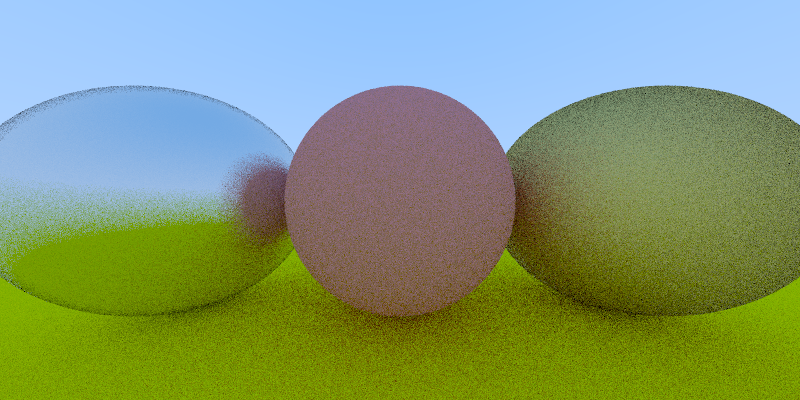
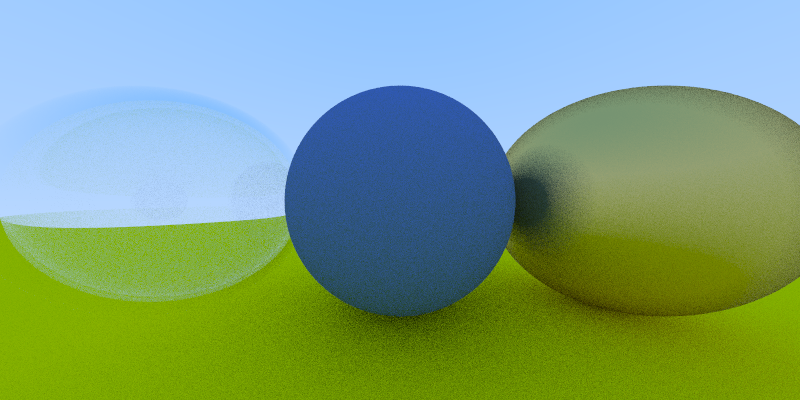
Chapter 9: Dielectrics
The `material` module should probably be refactored. I'm not sure I
like using an an enum to get around the sized issue for the `Scatter`
trait, either.

If I'm still interested when I'm done the chapters, I'll try to clean
this up.

diff --git a/src/mobula/material.rs b/src/mobula/material.rs
@@ -13,6 +13,7 @@ pub trait Scatter {
 pub enum Material {
     Lambertian(Lambertian),
     Metal(Metal),
+    Dialectric(Dialectric),
 }
 
 impl Material {
@@ -25,6 +26,9 @@ impl Material {
                             albedo: V3::new(r, g, b),
                         })
     }
+    pub fn dialectric(refractive_index: f64) -> Self {
+        Material::Dialectric(Dialectric { refractive_index })
+    }
 }
 
 impl Scatter for Material {
@@ -32,6 +36,7 @@ impl Scatter for Material {
         match self {
             Material::Lambertian(m) => m.scatter(ray, hit, attenuation, scattered),
             Material::Metal(m) => m.scatter(ray, hit, attenuation, scattered),
+            Material::Dialectric(m) => m.scatter(ray, hit, attenuation, scattered),
         }
     }
 }
@@ -84,5 +89,57 @@ impl Scatter for Metal {
                               reflected + random_in_unit_sphere().scale(self.fuzz));
         *attenuation = self.albedo;
         scattered.direction().dot(hit.normal) > 0.0
+    }
+}
+#[derive(Copy, Clone, Debug)]
+pub struct Dialectric {
+    refractive_index: f64,
+}
+
+impl Dialectric {
+    fn schlick(&self, cosine: f64) -> f64 {
+        let mut r0 = (1.0 - self.refractive_index) / (1.0 + self.refractive_index);
+        r0 = r0 * r0;
+        r0 + (1.0 - r0) * (1.0 - cosine).powf(5.0)
+    }
+}
+
+impl Scatter for Dialectric {
+    fn scatter(self, ray: &Ray, hit: &Hit, attenuation: &mut V3, scattered: &mut Ray) -> bool {
+        let outward_normal: V3;
+        let reflected = ray.direction().reflect(hit.normal);
+        let ni_over_nt: f64;
+        *attenuation = V3::new(1.0, 1.0, 1.0);
+        let reflect_probability: f64;
+        let cosine: f64;
+
+        if ray.direction().dot(hit.normal) > 0.0 {
+            outward_normal = -hit.normal;
+            ni_over_nt = self.refractive_index;
+            cosine = self.refractive_index * ray.direction().dot(hit.normal) /
+                     ray.direction().magnitude().powf(2.0);
+        } else {
+            outward_normal = hit.normal;
+            ni_over_nt = 1.0 / self.refractive_index;
+            cosine = -ray.direction().dot(hit.normal) / ray.direction().magnitude().powf(2.0);
+        }
+
+        let mut refracted = V3::default();
+        match ray.direction().refract(outward_normal, ni_over_nt) {
+            None => reflect_probability = 1.0,
+            Some(r) => {
+                reflect_probability = self.schlick(cosine);
+                refracted = r;
+            }
+        }
+
+        let rand = rand::random::<f64>();
+
+        if rand < reflect_probability {
+            *scattered = Ray::new(hit.intersection, reflected);
+        } else {
+            *scattered = Ray::new(hit.intersection, refracted);
+        }
+        true
     }
 }

diff --git a/src/main.rs b/src/main.rs
@@ -18,8 +18,8 @@ use mobula::world::{World, nearest_hit};
 
 const IMAGE_WIDTH: u32 = 800;
 const IMAGE_HEIGHT: u32 = 400;
-const SAMPLES: u32 = 8;
-const MAX_DEPTH: u32 = 20;
+const SAMPLES: u32 = 32;
+const MAX_DEPTH: u32 = 50;
 
 fn linear_interpolation(start: V3, end: V3, t: f64) -> V3 {
     start.scale(1.0 - t) + end.scale(t)
@@ -57,22 +57,23 @@ fn colour(ray: Ray, world: &World, depth: u32) -> V3 {
 fn main() {
     let camera = Camera::new();
     let mut world = World::new();
+    // smaller matte blue sphere in the center of the frame
+    world.push(Box::new(Sphere::new(Point::new(0.0, 0.0, -1.0),
+                                    0.5,
+                                    Material::lambertian(0.1, 0.2, 0.5))));
     // huge matte green sphere as the 'ground'
     world.push(Box::new(Sphere::new(Point::new(0.0, -100.5, -1.0),
                                     100.0,
                                     Material::lambertian(0.8, 0.8, 0.0))));
-    // smaller matte red sphere in the center of the frame
-    world.push(Box::new(Sphere::new(Point::new(0.0, 0.0, -1.0),
-                                    0.5,
-                                    Material::lambertian(0.8, 0.3, 0.3))));
     // metal sphere on the right
     world.push(Box::new(Sphere::new(Point::new(1.0, 0.0, -1.0),
                                     0.5,
-                                    Material::metal(0.8, 0.6, 0.2, 1.0))));
-    // metal sphere on the left
+                                    Material::metal(0.8, 0.6, 0.2, 0.5))));
+    // glass sphere on the left
+    world.push(Box::new(Sphere::new(Point::new(-1.0, 0.0, -1.0), 0.5, Material::dialectric(1.5))));
     world.push(Box::new(Sphere::new(Point::new(-1.0, 0.0, -1.0),
-                                    0.5,
-                                    Material::metal(0.8, 0.8, 0.8, 0.3))));
+                                    -0.45,
+                                    Material::dialectric(1.5))));
 
     let img = ImageBuffer::from_fn(IMAGE_WIDTH, IMAGE_HEIGHT, |i, j| {
         let u = (i as f64) / (IMAGE_WIDTH as f64);

diff --git a/src/mobula/v3.rs b/src/mobula/v3.rs
@@ -32,17 +32,23 @@ impl V3 {
         (self.x * other.x) + (self.y * other.y) + (self.z * other.z)
     }
 
-    // The cross product of two vectors.
-    // pub fn cross(self, other: V3) -> Self {
-    //     let x = (self.y * other.z) - (self.z * other.y);
-    //     let y = -((self.x * other.z) - (self.z * other.x));
-    //     let z = (self.x * other.y) - (self.y * other.z);
-    //     V3 { x, y, z }
-    // }
-
     /// reflect a vector using the normal of the surface it's reflecting off of.
     pub fn reflect(self, normal: V3) -> V3 {
         self - normal.scale(2.0 * self.dot(normal))
+    }
+
+    /// refract a vector
+    pub fn refract(self, normal: V3, ni_over_nt: f64) -> Option<V3> {
+        let uv = self.normalize();
+        let dt = uv.dot(normal);
+        let discriminant = 1.0 - (ni_over_nt * ni_over_nt * (1.0 - dt * dt));
+        if discriminant > 0.0 {
+            let refracted = (uv - normal.scale(dt)).scale(ni_over_nt) -
+                            normal.scale(discriminant.sqrt());
+            Some(refracted)
+        } else {
+            None
+        }
     }
 
     /// Make a normalized (unit) vector.
